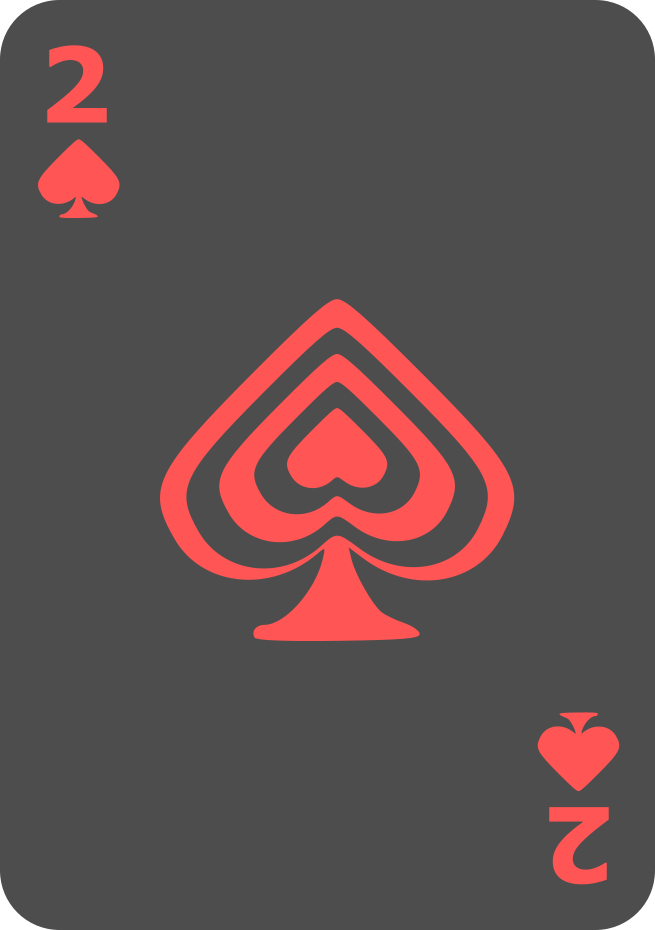
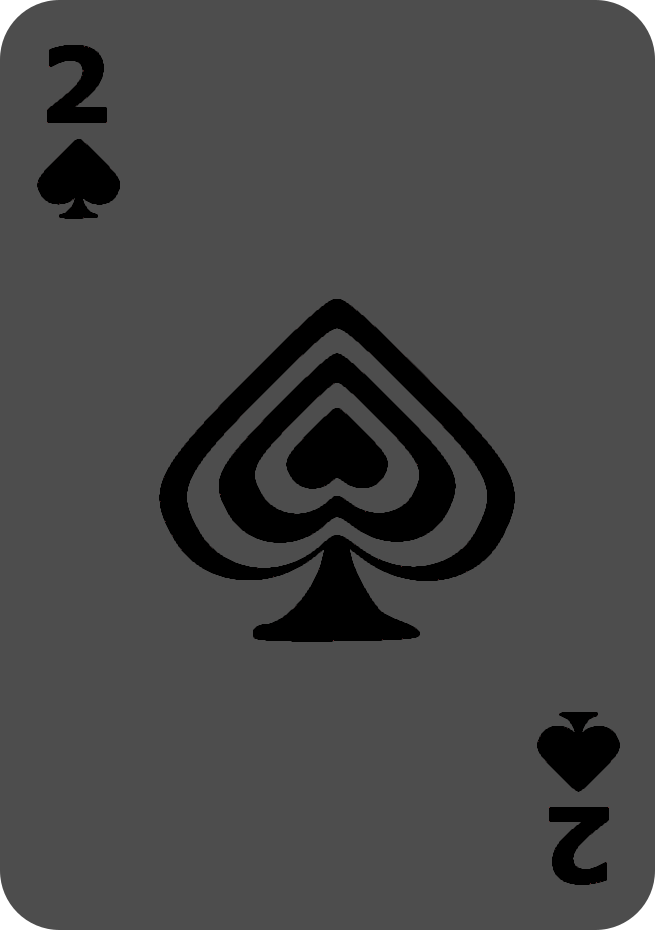
changed black card image files, updated header options, changed nav to buttons, css needed, high score api needed

Changed region(s): [[0.2443, 0.3118, 0.7939, 0.7172], [0.0611, 0.0312, 0.1832, 0.2495], [0.8244, 0.7484, 0.9466, 0.9667]]

diff --git a/src/Header.js b/src/Header.js
@@ -4,12 +4,12 @@ import React from 'react'
 const Header = () => {
     return (
         <header>
-            <img src="/assets/imgs/CraigHeader.png" height="150px" className="craig_header_img" alt="Craig Cartoon Face"></img>
+            <img src="/assets/imgs/CraigHeaderSW2.png" height="150px" className="craig_header_img" alt="Craig Cartoon Face"></img>
             <nav id="nav">
-                <a href="google.com">Me</a>
-                <a href="google.com">Projects</a>
-                <a href="google.com">Find Me</a>
-                <a href="google.com">Contact</a>
+                <a href="google.com"><button className="nav_btn" id="me_nav_btn" >Me</button></a>
+                <a href="google.com"><button className="nav_btn" id="projects_nav_btn" >Projects</button></a>
+                <a href="google.com"><button className="nav_btn" id="find_me_nav_btn" >Find Me</button></a>
+                <a href="google.com"><button className="nav_btn" id="contact_nav_btn" >Contact</button></a>
             </nav>
         </header>
     )

diff --git a/src/CardGame.js b/src/CardGame.js
@@ -175,13 +175,13 @@ function CardGame ()  {
         var suits = JSON.parse(ss.getItem('cardArray'));
         var thisDeal = parseInt(ss.getItem('currCard'));
         if (thisDeal < 610){
-            //dealPlayerCard("Hearts", "ACE"); //testing cards
+            //dealPlayerCard("Clubs", "QUEEN"); //testing cards
             dealPlayerCard(suits[thisDeal][0], suits[thisDeal][1]);
             thisDeal++;
             //dealDealerCard("Hearts", "2"); testing cards
             dealDealerCard(suits[thisDeal][0], suits[thisDeal][1]);
             thisDeal++;
-            //dealPlayerCard("Hearts", "JACK"); //testing cards
+            //dealPlayerCard("Clubs", "3"); //testing cards
             dealPlayerCard(suits[thisDeal][0], suits[thisDeal][1]);
             thisDeal++;
             //dealDealerCard("Hearts", "2"); testing cards
